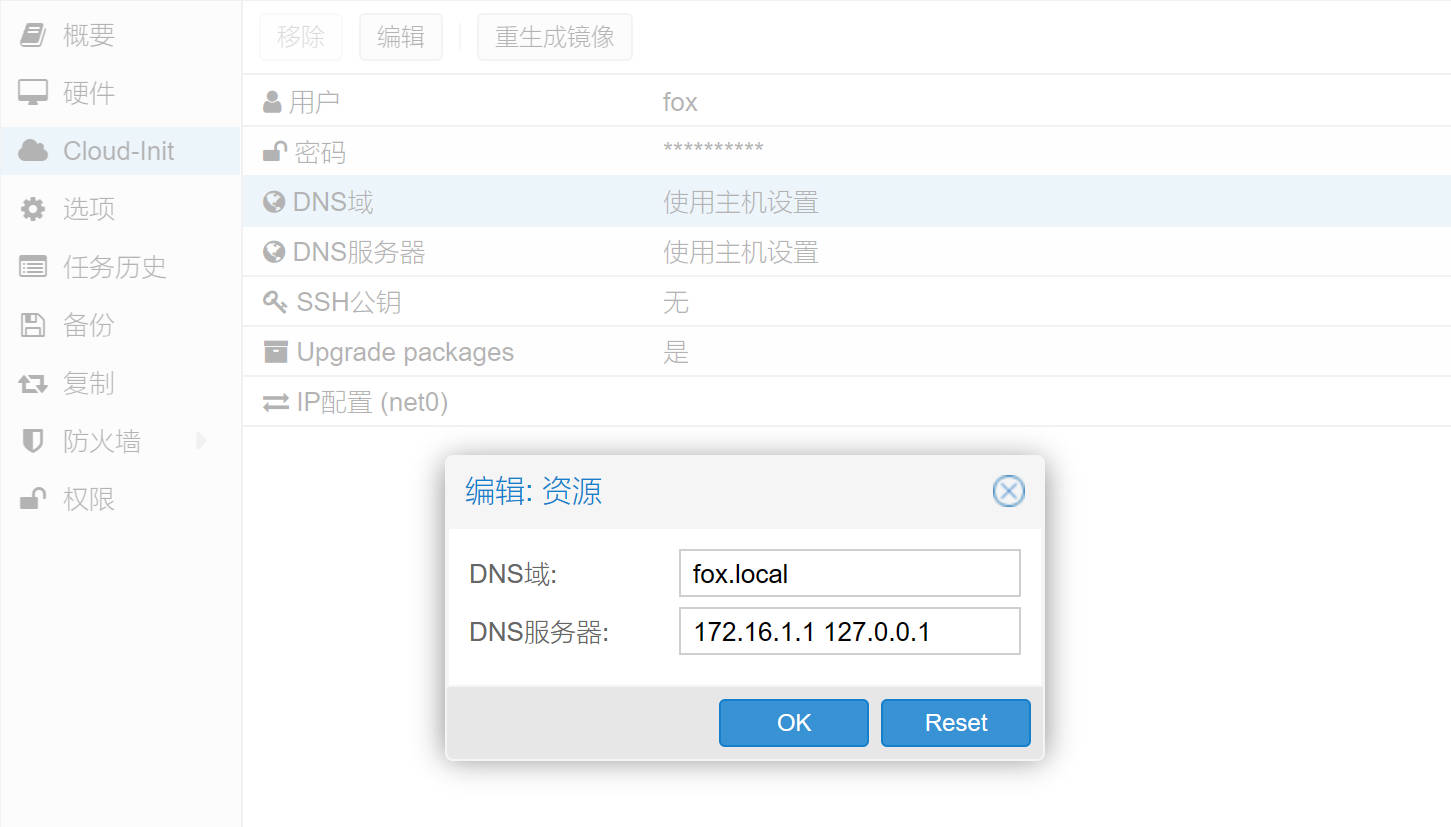
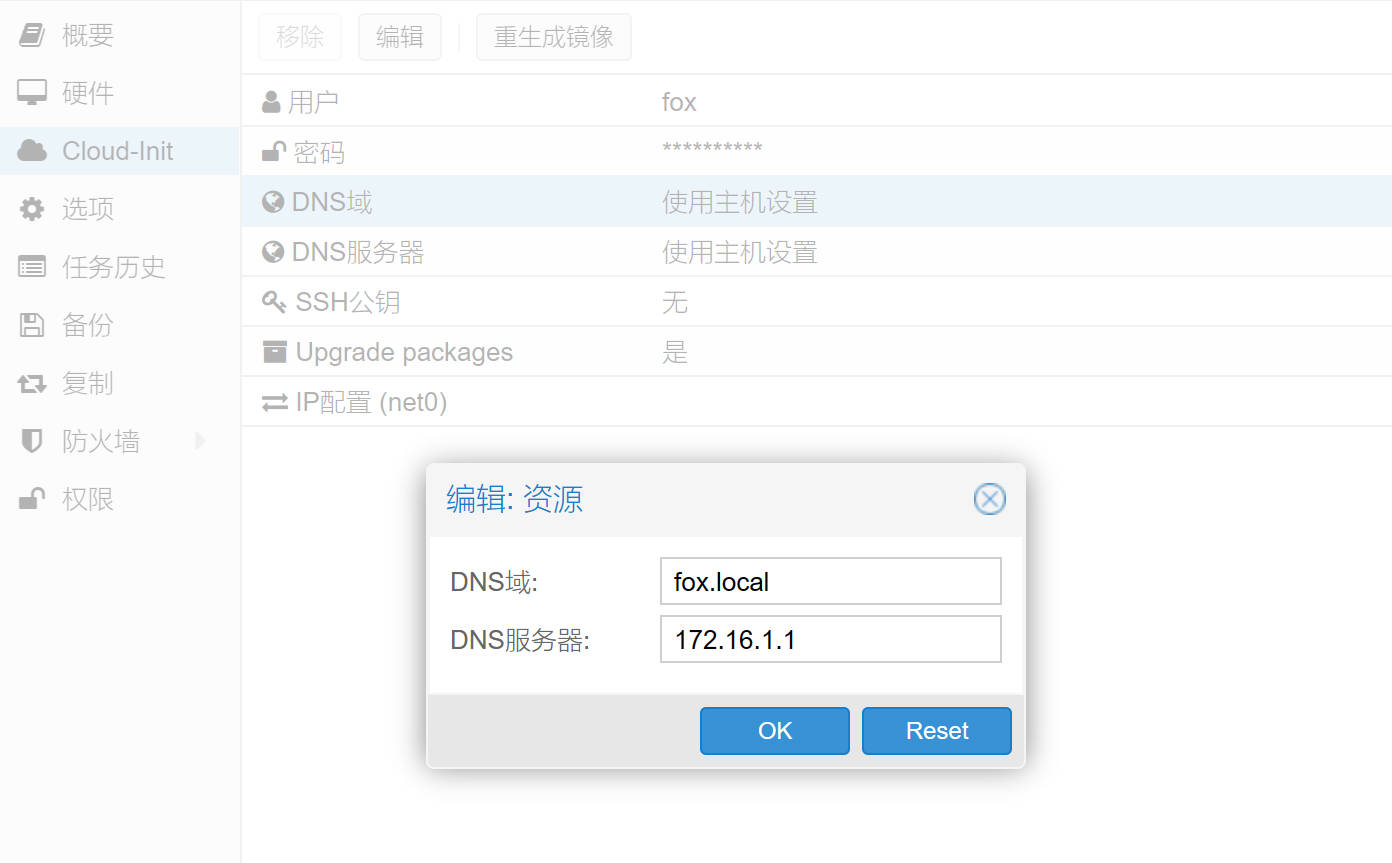
常规更新

diff --git a/06.PVE用模板克隆虚拟机.md b/06.PVE用模板克隆虚拟机.md
@@ -63,9 +63,65 @@
 
 ![克隆虚拟机自动启动顺序](img/p06/vm_clone_autostart_order.jpeg)
 
-## 4.安装 Adguard Home
+## 4.调整系统端口
 
 设置完成后，将该虚拟机开机，并使用 SSH 工具登录。  
+
+Adguard Home 需监听系统 `53` 端口来提供 DNS 服务，使用以下命令检查端口占用。  
+
+```bash
+## 检查 53 端口占用
+$ sudo lsof -i :53
+
+#### 端口占用示例输出
+COMMAND   PID            USER   FD   TYPE DEVICE SIZE/OFF NODE NAME
+systemd-r 347 systemd-resolve   17u  IPv4  13445      0t0  UDP localhost:domain
+systemd-r 347 systemd-resolve   18u  IPv4  13446      0t0  TCP localhost:domain (LISTEN)
+systemd-r 347 systemd-resolve   19u  IPv4  13447      0t0  UDP localhost:domain
+systemd-r 347 systemd-resolve   20u  IPv4  13448      0t0  TCP localhost:domain (LISTEN)
+```
+
+当前系统 `53` 端口被 `systemd-resolved.service` 占用，会导致 Adguard Home 监听端口失败。  
+
+为了正常使用 Adguard Home ，需要对 `systemd-resolved.service` 进行配置，逐行执行以下命令。  
+
+```bash
+## 创建 systemd-resolved 配置文件夹
+$ sudo mkdir -p /etc/systemd/resolved.conf.d
+
+## 创建 systemd-resolved 配置文件
+$ sudo vim /etc/systemd/resolved.conf.d/adguardhome.conf
+```
+
+在配置文件中添加以下配置项，并保存。  
+
+```bash
+## systemd-resolved 配置项
+
+[Resolve]
+DNS=127.0.0.1
+DNSStubListener=no
+
+```
+
+保存该配置文件后，还需调整系统 `resolv.conf` 配置文件，逐行执行以下命令。  
+
+```bash
+## 备份 resolv.conf 配置文件
+$ sudo mv /etc/resolv.conf /etc/resolv.conf.bak
+
+## 创建 resolv.conf 软链接
+$ sudo ln -s /run/systemd/resolve/resolv.conf /etc/resolv.conf
+```
+
+配置完成后，需重启 `systemd-resolved.service` 服务，并再次检查系统 `53` 端口占用。  
+
+```bash
+## 重启 systemd-resolved 服务
+$ sudo systemctl restart systemd-resolved.service
+```
+
+## 5.安装 Adguard Home
 
 Adguard Home 将采用 `snap` 形式安装，逐行执行以下命令。  
 
@@ -77,7 +133,7 @@ $ sudo apt install snapd
 $ sudo snap install adguard-home
 ```
 
-### 4.1. Snap 自动更新
+### 5.1. Snap 自动更新
 
 查看 Snap 当前的更新策略，执行以下命令。  
 
@@ -96,7 +152,7 @@ $ sudo snap set system refresh.timer=2:30-3:30,14:30-15:30
 $ sudo snap set system refresh.timer=mon,2:30,,fri,2:30
 ```
 
-### 4.2. Snap 定时任务
+### 5.2. Snap 定时任务
 
 本步骤为可选操作，主要设置定时重启 Snap 服务。  
 
@@ -117,7 +173,7 @@ $ sudo crontab -e
 
 ```
 
-## 5.配置 Adguard Home
+## 6.配置 Adguard Home
 
 关于 Adguard Home 配置相关内容，请参阅 [Adguard Home 折腾手记](https://gitee.com/callmer/agh_toss_notes) 。  
 

diff --git a/04.PVE创建模板虚拟机.md b/04.PVE创建模板虚拟机.md
@@ -216,20 +216,21 @@ Successfully imported disk as 'unused0:local-lvm:vm-1000-disk-0'
 
 |参数|值|说明|
 |--|--|--|
-|用户|fox|新系统的管理员账户|
-|密码|********|使用强密码|
-|DNS域|fox.local|内网域名（可选）|
-|DNS服务器|`172.16.1.1 127.0.0.1`|本机DNS服务器，用空格隔开|
-|SSH公钥|无|使用秘钥登录服务器，暂不使用|
+|用户|`fox`|新系统的管理员账户|
+|密码|`********`|使用强密码|
+|DNS域|`fox.local`|内网域名（可选）|
+|DNS服务器|`172.16.1.1`|本机 DNS 服务器|
+|SSH公钥|`无`|使用秘钥登录服务器，暂不使用|
+|Upgrade packages|`是`|启动时更新软件包，保持默认即可|
 |IP配置(net0)|`ip=172.16.1.250/24,gw=172.16.1.1,ip6=auto`|模板的 IP 设置|
 
 **额外说明：**  
 
 1. 修改 `Cloud-Init` 参数时，需要在虚拟机关机情况下修改才会生效。  
 
-2. 在 `DNS服务器` 设置部分，如果先设置了 `127.0.0.1` 作为 DNS 服务器，后续其他 DNS 的 IP 地址将被忽略。  
+2. `DNS服务器` 参数支持输入多个 IPv4 / IPv6 地址，使用空格隔开。  
 
-此时内网没有其他 DNS 服务器，因此将 `DNS服务器` 设置为 `172.16.1.1 127.0.0.1` ，IP 之间用空格隔开。  
+3. 当前 `DNS服务器` 参数为主路由 LAN 口 IPv4 地址，确保虚拟机能正常联网。  
 
 ![CI网络配置](img/p04/vm_ci_dns.jpeg)
 
@@ -245,7 +246,8 @@ Successfully imported disk as 'unused0:local-lvm:vm-1000-disk-0'
 
 |参数|值|说明|
 |--|--|--|
-|DNS服务器|`172.16.1.1 fdac::1 127.0.0.1`|本机DNS服务器，用空格隔开|
+|DNS域|`fox.local`|内网域名（可选）|
+|DNS服务器|`172.16.1.1 fdac::1`|本机 DNS 服务器|
 |IP配置(net0)|`ip=172.16.1.250/24,gw=172.16.1.1,ip6=fdac::fa/64`|模板的 IP 设置|
 
 `DNS服务器` 参数中需要加入主路由 LAN 口 ULA IPv6 地址。  

diff --git a/03.PVE系统调整.md b/03.PVE系统调整.md
@@ -43,9 +43,7 @@ Sun, 25 Jun 2023 12:12:12 +0800
 
 Debian 系统常用 `systemd-timesyncd.service` 来同步时间，而 PVE 系统使用 `chrony.service` 来同步时间。  
 
-为了使用国内的 NTP 服务器，需要对 `chrony.service` 进行配置。  
-
-执行以下命令对 `chrony` 的配置文件进行修改。  
+为了使用国内的 NTP 服务器，需要对 `chrony.service` 进行配置，执行以下命令。  
 
 ```bash
 ## 编辑 chrony 配置文件
@@ -66,7 +64,7 @@ pool ntp.aliyun.com iburst
 
 ```
 
-保存该配置文件后，需重启 `chrony` 服务，并再次检查系统 NTP 服务器地址。  
+保存该配置文件后，需重启 `chrony.service` ，并再次检查系统 NTP 服务器地址。  
 
 ```bash
 ## 重启 chrony 服务
@@ -258,7 +256,7 @@ $ dpkg-reconfigure -plow unattended-upgrades
 Creating config file /etc/apt/apt.conf.d/20auto-upgrades with new version
 ```
 
-进一步调整 apt 的 `20auto-upgrades` 配置文件。  
+进一步调整 `20auto-upgrades` 配置文件。  
 
 ```bash
 ## 进入 apt 的配置目录
@@ -282,7 +280,7 @@ APT::Periodic::CleanInterval "1";
 
 ```
 
-进一步调整 apt 的 `50unattended-upgrades` 配置文件。  
+进一步调整 `50unattended-upgrades` 配置文件。  
 
 ```bash
 ## 编辑 50unattended-upgrades 配置文件

diff --git a/05.PVE制作虚拟机模板.md b/05.PVE制作虚拟机模板.md
@@ -215,7 +215,7 @@ $ sudo sysctl -f
 
 ### 1.5.调整系统时间
 
-默认情况下的 Debian 云镜像的系统时间需要调整，执行以下命令将系统时区设置为中国时区。  
+默认情况下 Debian 云镜像的系统时间需要调整，执行以下命令将系统时区设置为中国时区。  
 
 ```bash
 ## 设置系统时区
@@ -305,7 +305,7 @@ $ sudo dpkg-reconfigure -plow unattended-upgrades
 Creating config file /etc/apt/apt.conf.d/20auto-upgrades with new version
 ```
 
-接下来调整 apt 的 `20auto-upgrades` 配置文件。  
+进一步调整 `20auto-upgrades` 配置文件。  
 
 ```bash
 ## 编辑 20auto-upgrades 配置文件
@@ -326,7 +326,7 @@ APT::Periodic::CleanInterval "1";
 
 ```
 
-进一步调整 apt 的 `50unattended-upgrades` 配置文件。  
+进一步调整 `50unattended-upgrades` 配置文件。  
 
 ```bash
 ## 编辑 50unattended-upgrades 配置文件
